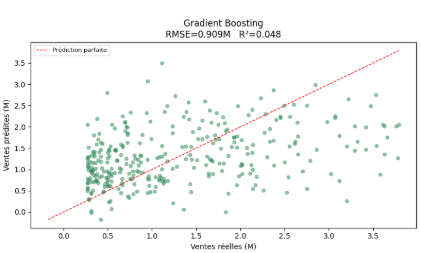
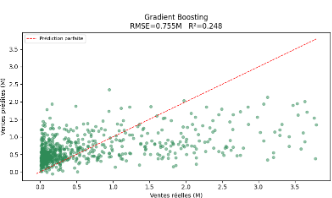
MAJ de la page documentation avec les images des graphes

diff --git a/Site_web/frontend/documentation.php b/Site_web/frontend/documentation.php
@@ -3,12 +3,12 @@ session_start();
 
 $donnees = [
     'gradient_boosting' => [
-        'type1' => ['RMSE' => '0.909', 'MAE' => '0.713', 'R²' => '0.048', 'image' => 'images/graphe_VP_vs_VR_GB_moyen.png'],
-        'type2' => ['RMSE' => '0.229', 'MAE' => '0.172', 'R²' => '0.173', 'image' => 'images/graphe_VP_vs_VR_GB_petit.png'],
+        'type1' => ['RMSE' => '0.755', 'MAE' => '0.546', 'R²' => '0.248', 'image' => 'images/graphe_VP_vs_VR_GB_moyen.png'],
+        'type2' => ['RMSE' => '0.228', 'MAE' => '0.171', 'R²' => '0.180', 'image' => 'images/graphe_VP_vs_VR_GB_petit.png'],
     ],
     'random_forest' => [
-        'type1' => ['RMSE' => '0.838', 'MAE' => '0.678', 'R²' => '0.193', 'image' => 'images/graphe_VP_vs_VR_RF_moyen.png'],
-        'type2' => ['RMSE' => '0.229', 'MAE' => '0.173', 'R²' => '0.167', 'image' => 'images/graphe_VP_vs_VR_RF_petit.png'],
+        'type1' => ['RMSE' => '0.757', 'MAE' => '0.547', 'R²' => '0.245', 'image' => 'images/graphe_VP_vs_VR_RF_moyen.png'],
+        'type2' => ['RMSE' => '0.231', 'MAE' => '0.174', 'R²' => '0.153', 'image' => 'images/graphe_VP_vs_VR_RF_petit.png'],
     ],
 ];
 
@@ -20,12 +20,12 @@ $explications = [
 
 $description_graphe = [
     'gradient_boosting' => [
-        'type1' => "Avec un RMSE de 0.909 et un R² de 0.048, Gradient Boosting est le plus performant des deux modèles. Ses points s'alignent relativement mieux autour de la ligne rouge pour les ventes faibles à moyennes (0-1,5M). Cependant, comme les autres modèles, il sous-estime systématiquement les ventes élevées (>2M), où les points s'éloignent nettement de la diagonale.",
-        'type2' => "Avec un RMSE de 0,229 et un R² de 0.173, Gradient Boosting est le plus performant des deux modèles. Ses points s'alignent relativement mieux autour de la ligne rouge pour les ventes faibles à moyennes (0–0,4M). Cependant, au-delà de 0,4M, la dispersion augmente nettement et les prédictions deviennent peu fiables. Gradient Boosting est légèrement supérieur à Random Forest grâce à son R² plus élevé.",
+        'type1' => "Avec un RMSE de 0.755 et un R² de 0.248, Gradient Boosting est le plus performant des deux modèles. Ses points s'alignent relativement mieux autour de la ligne rouge pour les ventes faibles à moyennes (0-1,5M). Cependant, comme les autres modèles, il sous-estime systématiquement les ventes élevées (>2M), où les points s'éloignent nettement de la diagonale.",
+        'type2' => "Avec un RMSE de 0,228 et un R² de 0.180, Gradient Boosting est le plus performant des deux modèles. Ses points s'alignent relativement mieux autour de la ligne rouge pour les ventes faibles à moyennes (0–0,4M). Cependant, au-delà de 0,4M, la dispersion augmente nettement et les prédictions deviennent peu fiables. Gradient Boosting est légèrement supérieur à Random Forest grâce à son R² plus élevé.",
     ],
     'random_forest' => [
-        'type1' => "Random Forest affiche des résultats très proches (RMSE = 0.838, R² = 0.193). La distribution de ses points (en bleu) est similaire à celle du Gradient Boosting, avec une légère dispersion supplémentaire pour les ventes entre 0 et 1M. Il échoue lui aussi à prédire les valeurs au dessus de 2M.",
-        'type2' => "Random Forest affiche des résultats identiques (RMSE = 0.229, R² = 0.167). La distribution de ses points est similaire à celle du Gradient Boosting, avec une dispersion comparable sur la plage 0–0,4M. Il échoue lui aussi à prédire de manière fiable les valeurs au-dessus de 0,4M.",
+        'type1' => "Random Forest affiche des résultats très proches (RMSE = 0.757, R² = 0.245). La distribution de ses points (en bleu) est similaire à celle du Gradient Boosting, avec une légère dispersion supplémentaire pour les ventes entre 0 et 1M. Il échoue lui aussi à prédire les valeurs au dessus de 2M.",
+        'type2' => "Random Forest affiche des résultats identiques (RMSE = 0.231, R² = 0.153). La distribution de ses points est similaire à celle du Gradient Boosting, avec une dispersion comparable sur la plage 0–0,4M. Il échoue lui aussi à prédire de manière fiable les valeurs au-dessus de 0,4M.",
         ],
 
 ];
@@ -75,13 +75,13 @@ $valeurs = ($modele && $type) ? ($donnees[$modele][$type] ?? null) : null;
                         <?php if ($modele): ?>
                         <select name="type_docu" onchange="this.form.submit()">
                             <option value=""> Choisir le type de développeur</option>
-                            <option value="type1" <?= $type === 'type1' ? 'selected' : '' ?>>Intermédiaires</option>
+                            <option value="type1" <?= $type === 'type1' ? 'selected' : '' ?>>Tous développeurs</option>
                             <option value="type2" <?= $type === 'type2' ? 'selected' : '' ?>>Petits</option>
                         </select>
                         <?php endif; ?>
                     </form>
                     <?php if (!$modele): ?>
-                        <p>Les types de modèles servent à étudier les capacités de chacun des trois modèles avec un petit, moyen ou grand jeu de données.
+                        <p>Les types de modèles servent à étudier les capacités de chacun des trois modèles avec un petit ou grand jeu de données.
                         Cela permet d'ajuster un maximum le modèle choisi pour prédire à partir de nos données.</p>
                     <?php endif; ?>
 
